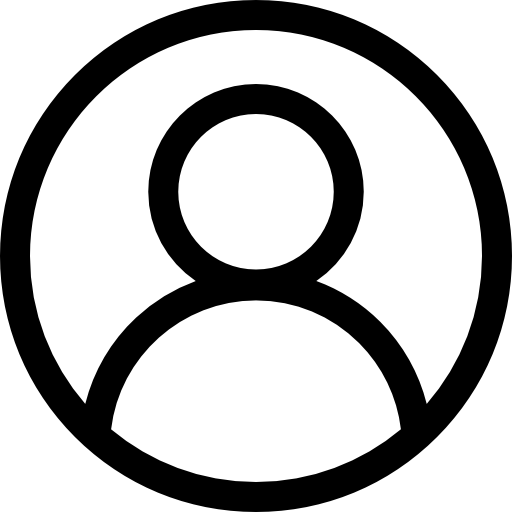
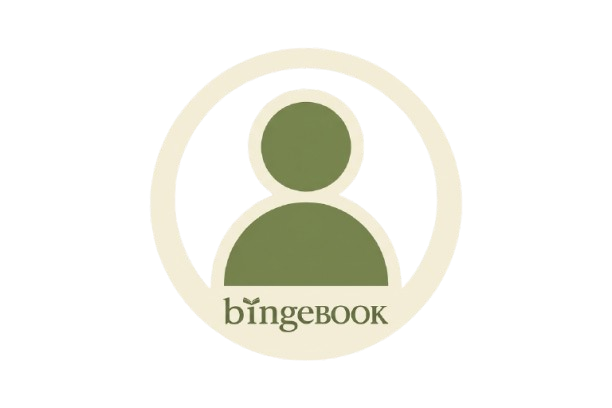
feat: complete Bingebook v1.

diff --git a/apps/backend/src/routes/auth.ts b/apps/backend/src/routes/auth.ts
@@ -3,6 +3,7 @@ import jwt from "jsonwebtoken"
 import { UserModel,ActivityModel} from "@repo/db"
 import {authMiddleware} from "../middleware"
 import {CreateUserSchema , SigninSchema} from "@repo/common"
+import bcrypt from "bcrypt"
 const router: Router = express.Router()
 const JWT_SECRET = process.env.JWT_SECRET!
 
@@ -22,10 +23,12 @@ router.post("/signup", async (req, res) => {
   }
 
   try {
+    const hashedPassword = await bcrypt.hash(password, 10);
+
     const response = await UserModel.create({
       email,
-      password,
       username,
+      password: hashedPassword,
     });
 
     res.json({
@@ -48,10 +51,8 @@ router.post("/signup", async (req, res) => {
 router.post("/signin", async (req, res) => {
   const { email, password } = req.body;
 
-  const result = SigninSchema.safeParse({
-    email,
-    password,
-  });
+  const result = SigninSchema.safeParse(
+    req.body);
 
   if (!result.success) {
     return res.status(400).json({
@@ -62,7 +63,6 @@ router.post("/signin", async (req, res) => {
   try {
     const user = await UserModel.findOne({
       email,
-      password,
     });
 
     if (!user) {
@@ -70,7 +70,13 @@ router.post("/signin", async (req, res) => {
         message: "Incorrect credentials.",
       });
     }
-
+    const valid  = await bcrypt.compare(password,user.password!)
+    if(!valid)
+    {
+      return res.status(403).json({
+        message: "Incorrect credentials",
+      });
+    }
     const token = jwt.sign(
       { id: user._id.toString() },
       JWT_SECRET

diff --git a/apps/web/app/page.tsx b/apps/web/app/page.tsx
@@ -2,7 +2,7 @@ import { Logo } from "./components/logo";
 import { Button } from "@repo/ui";
 import { tmdb, imageUrl } from "@/lib/api";
 import {ProgressTracker} from "./components/icons/playicon"
-import {StarIcon} from "./components/icons/staricon"
+import {RatingIcon} from "./components/icons/ratingicon"
 import {Bookmark} from "./components/icons/bookmark"
 import {Notebook} from "./components/icons/notebook"
 import Link from "next/link";
@@ -16,7 +16,7 @@ export default async function Landing() {
      
       <div className="bg-accent h-30 px-8 flex items-center justify-between">
         <div className="pt-16 pr-4">
-           <Logo />
+           <Logo variant="primary" />
         </div>
 
         <div className="flex gap-4">
@@ -133,7 +133,7 @@ export default async function Landing() {
         </div>
 
     <div className="bg-mid rounded-2xl p-8 border border-text-secondary/20 transition-all duration-300 hover:-translate-y-2 hover:shadow-xl">
-      <div className="text-4xl mb-6 pt-10"><StarIcon/></div>
+      <div className="text-4xl mb-6 pt-10"><RatingIcon/></div>
       <h3 className="text-xl font-Ubuntu text-text-primary mb-3">
         Personal Ratings
       </h3>

diff --git a/apps/web/app/watched/page.tsx b/apps/web/app/watched/page.tsx
@@ -15,7 +15,7 @@ export default function Watching() {
   useEffect(() => {
     async function load() {
       const watched = await GetWatched();
-      console.log("Watched API:",watched)
+      
 
       if (!Array.isArray(watched)) {
         console.log(watched);
@@ -63,6 +63,9 @@ export default function Watching() {
         </Link>
       </div>
 
+     
+
+
       <div className="flex flex-col md:flex-row items-center justify-center gap-4 pt-10 relative">
         <Link href="/watchlist">
           <Button variant="secondary" text="Watchlist" size="lg" />
@@ -81,6 +84,13 @@ export default function Watching() {
         </div>
       </div>
 
+      {items.length == 0 && (
+          <div className="flex h-[60vh] items-center justify-center">
+      <p className="font-Ubuntu text-accent text-2xl">
+      Nothing watched yet.
+      </p>
+    </div> 
+      )}
   <div className="grid grid-cols-2 md:grid-cols-4 lg:grid-cols-6 gap-8 pt-20 pb-20">
         
       {items.map((item: any) => (

diff --git a/apps/web/app/profile/page.tsx b/apps/web/app/profile/page.tsx
@@ -72,7 +72,6 @@ export default function ProfilePage() {
 
       
       <div className="h-48 bg-accent" />
-      
       <div className="max-w-7xl mx-auto px-8 -mt-20">
       
         
@@ -183,15 +182,22 @@ export default function ProfilePage() {
     <h2 className="font-Ubuntu text-2xl text-text-primary">
       Recent Reviews
     </h2>
-
+   
     <Link
       href="/reviews"
       className="font-Ubuntu text-accent hover:underline"
     >
       View All →
     </Link>
+    
   </div>
-
+  {review.length == 0 && (
+          <div className="flex h-[-20vh] items-center justify-start">
+             <p className="font-Ubuntu text-accent text-xl">
+             No reviews yet.
+            </p>
+          </div> 
+      )}
   <div className="grid grid-cols-1 md:grid-cols-2 gap-5 pb-8">
   {review.map((review: any) => (
     <Link

diff --git a/apps/web/app/watching/page.tsx b/apps/web/app/watching/page.tsx
@@ -63,6 +63,8 @@ export default function Watching() {
         
       </div>
 
+      
+
       <div className="flex flex-col md:flex-row items-center justify-center gap-4 pt-10 relative">
         <Link href="/watched">
           <Button variant="secondary" text="Watched" size="lg" />
@@ -81,6 +83,14 @@ export default function Watching() {
         </div>
       </div>
       
+      {items.length == 0 && (
+          <div className="flex h-[60vh] items-center justify-center">
+      <p className="font-Ubuntu text-accent text-2xl">
+      You're not watching anything right now.
+      </p>
+    </div> 
+      )}
+
       <div className="grid grid-cols-2 md:grid-cols-4 lg:grid-cols-6 gap-8 pt-20 pb-20">
         
       {items.map((item: any) => (

diff --git a/apps/web/app/watchlist/page.tsx b/apps/web/app/watchlist/page.tsx
@@ -72,11 +72,18 @@ export default function Watching() {
           <Button variant="secondary" text="Dropped" size="lg" />
         </Link>
 
-        <div className="w-full flex justify-center mt-4 md:w-auto md:mt-0 md:absolute md:right-6"
->
-  <SearchBar />
-</div>
+        <div className="w-full flex justify-center mt-4 md:w-auto md:mt-0 md:absolute md:right-6">
+          <SearchBar />
+        </div>
       </div>
+
+      {items.length == 0 && (
+          <div className="flex h-[60vh] items-center justify-center">
+      <p className="font-Ubuntu text-accent text-2xl">
+      Your watchlist is empty.
+      </p>
+    </div> 
+      )}
 
       <div className="grid grid-cols-2 md:grid-cols-4 lg:grid-cols-6 gap-8 pt-20 pb-20">
         

diff --git a/apps/web/lib/api.ts b/apps/web/lib/api.ts
@@ -196,19 +196,25 @@ export async function signup(data: {
 
 export async function signin(data: {
   password: string;
-  email:string;
-  
-})
-{
-  const res = await fetch(`${BASE_URL}/auth/signin`,{
-    method:"POST",
-    headers : {
-      "Content-Type":"application/json"
+  email: string;
+}) {
+  const res = await fetch(`${BASE_URL}/auth/signin`, {
+    method: "POST",
+    headers: {
+      "Content-Type": "application/json",
     },
     body: JSON.stringify(data),
+  });
 
-  })
-  return res.json()
+  const json = await res.json();
+
+  if (!res.ok) {
+    throw new Error(json.message);
+  }
+
+  localStorage.setItem("token", json.token);
+
+  return json;
 }
 export async function saveReview(data: {
   tmdbId: number;

diff --git a/apps/web/app/dropped/page.tsx b/apps/web/app/dropped/page.tsx
@@ -78,6 +78,13 @@ export default function Watching() {
         </div>
       </div>
 
+      {items.length == 0 && (
+          <div className="flex h-[60vh] items-center justify-center">
+      <p className="font-Ubuntu text-accent text-2xl">
+        Nothing has been dropped.
+      </p>
+    </div> 
+      )}
       <div className="grid grid-cols-2 md:grid-cols-4 lg:grid-cols-6 gap-8 pt-20 pb-20">
         
       {items.map((item: any) => (
@@ -88,7 +95,7 @@ export default function Watching() {
       className="w-full rounded-lg transition duration-300 group-hover:brightness-40"
     />
   </Link>
-
+      
   
 
   <div className="absolute inset-0 hidden group-hover:flex items-center justify-center z-10">

diff --git a/apps/web/app/components/icons/ratingicon.tsx b/apps/web/app/components/icons/ratingicon.tsx
@@ -1,0 +1,10 @@
+export function RatingIcon()
+{
+    return (
+        <div>
+            <svg xmlns="http://www.w3.org/2000/svg" width="75" height="75" viewBox="0 0 24 24" fill="none" stroke="#F2EDD7" 
+            strokeWidth="2" strokeLinecap="round" strokeLinejoin="round" 
+            className="lucide lucide-star-plus-icon lucide-star-plus"><path d="M11.013 18.582 6.396 21.01a.53.53 0 0 1-.77-.56l.881-5.139a2.12 2.12 0 0 0-.611-1.879L2.16 9.795a.53.53 0 0 1 .294-.906l5.165-.755a2.12 2.12 0 0 0 1.597-1.16l2.309-4.679a.53.53 0 0 1 .95 0l2.31 4.679a2.12 2.12 0 0 0 1.595 1.16l5.166.756a.53.53 0 0 1 .294.904L20 11.5"/><path d="M15 18h6"/><path d="M18 15v6"/></svg>
+        </div>
+    )
+}

diff --git a/apps/web/app/reviews/page.tsx b/apps/web/app/reviews/page.tsx
@@ -55,6 +55,14 @@ export default function ReviewPage()
             </Link>
            
             </div>
+            
+            {review.length == 0 && (
+          <div className="flex h-[60vh] items-center justify-center">
+             <p className="font-Ubuntu text-accent text-2xl">
+             Nothing has been dropped.
+            </p>
+          </div> 
+      )}
             <div className="grid grid-cols-1 md:grid-cols-2 lg:grid-cols-3 xl:grid-cols-4 gap-8 pt-20 pl-8 pr-8">
                     {review.map((review: any) => (
             <Link key={review._id} href={`/${review.mediaType}/${review.tmdbId}`}>

diff --git a/apps/backend/src/index.ts b/apps/backend/src/index.ts
@@ -9,7 +9,7 @@ import {authMiddleware} from "./middleware"
 const app = express()
 app.use(express.json())
 app.use(cors())
-mongoose.connect("mongodb+srv://vardhanvamsi587_db_user:VA44**msi@cluster0.yrkholx.mongodb.net/kinora")
+mongoose.connect(process.env.MONGO_URL!)
   .then(() => console.log("MongoDB connected"))
   .catch((err) => console.log(err))
 
